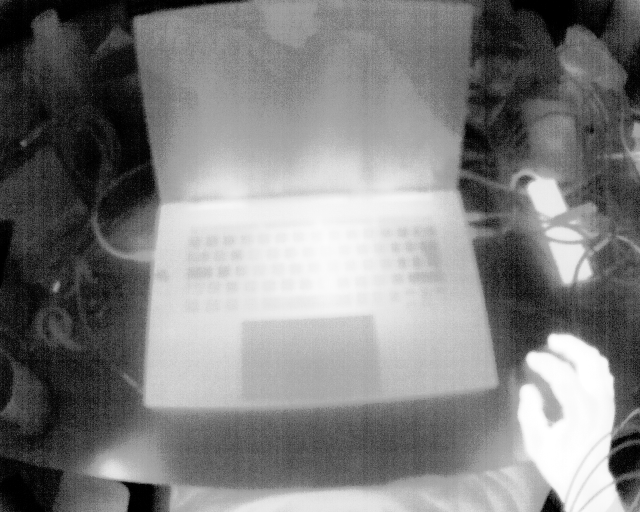
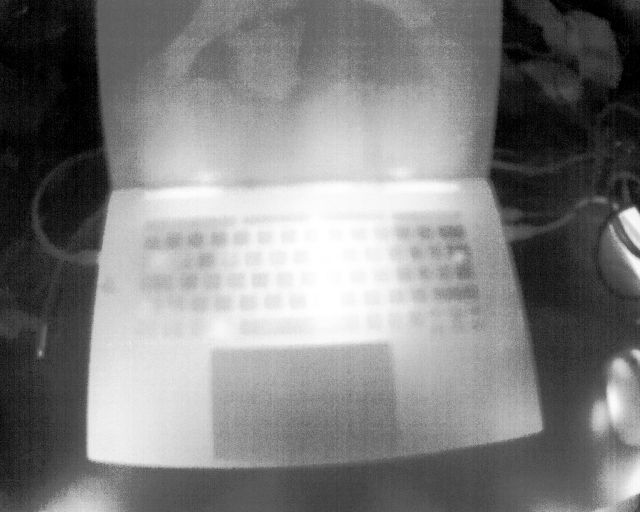
Update README and sample images with temperature unit display
Add Celsius/Fahrenheit/Kelvin sample images showing thermal OSD.
Recapture all doc images with latest overlay (crosshair, color bar,
spot meter, FPA temp).

diff --git a/README.md b/README.md
@@ -16,15 +16,23 @@ Portable C driver for the FLIR ADK 75° thermal camera (Boson 640 core). V4L2 ca
 
 **Software spot meter** -- ROI statistics (mean, std, min/max with pixel location) computed from RAW16 frames. Works on any camera variant including non-radiometric units.
 
+**Thermal OSD overlay** -- Professional camera-style display with center crosshair + temperature reading, spot meter ROI box, FPA temperature, and iron-bow color bar with scale. Selectable temperature units (°C, °F, K) via linear calibration from FPA reference.
+
 **CCI capability probe** -- Discovers which camera modules are available (radiometry, spot meter, TLinear, AGC, etc.) at runtime.
 
 **Cross-compilation** -- Builds with any C11 toolchain. Tested targets: x86_64, aarch64 (Jetson Orin, NXP i.MX8), MIPS (OpenWrt/QCA9533). Platform accelerator interface for GPU-accelerated processing.
 
 ## Sample Output
 
-| RAW16 (14-bit) | HEQ Grayscale | Iron-bow False Color |
+| RAW16 (14-bit) | HEQ Grayscale | Iron-bow + OSD |
 |:-:|:-:|:-:|
 | ![RAW16](doc/raw16.png) | ![HEQ](doc/heq_grayscale.png) | ![Iron-bow](doc/iron_bow.png) |
+
+### Temperature Units
+
+| Celsius | Fahrenheit | Kelvin |
+|:-:|:-:|:-:|
+| ![°C](doc/iron_bow_celsius.png) | ![°F](doc/iron_bow_fahrenheit.png) | ![K](doc/iron_bow_kelvin.png) |
 
 CCI probe output on a non-radiometric unit (20640A075-6PADK):
 ```
@@ -80,6 +88,9 @@ Dependencies: libc, libm, Linux kernel headers (V4L2, termios). Nothing else.
 # Full calibration: CCI report + HEQ AGC + spot meter + iron-bow output
 ./flir_calibrate -d /dev/video5 -c /dev/ttyACM0 -n 10 -o output
 
+# Same with temperature display in Fahrenheit (also accepts C or K)
+./flir_calibrate -d /dev/video5 -c /dev/ttyACM0 -n 10 -o output -u F
+
 # Python test with PNG output (requires Pillow + ffmpeg)
 python3 tools/flir_test.py -d /dev/video5 -c /dev/ttyACM0 -n 5 -o output
 ```
@@ -91,6 +102,7 @@ include/flir_adk.h          Public API (opaque handle, enums, frame struct)
 src/capture.c               V4L2 MMAP streaming
 src/cci.c                   FSLP protocol + CCI command wrappers
 src/spotmeter.c             Software spot meter (ROI stats from RAW16)
+src/colorbar.c              Thermal OSD overlay (color bar, crosshair, temp units)
 platform/accel_generic.c    HEQ AGC + iron-bow colorizer (pure C)
 platform/accel_cuda.c       Jetson Orin stub (GPU-accelerated AGC)
 platform/accel_imx8.c       NXP i.MX8 stub (VPU + GPU)
